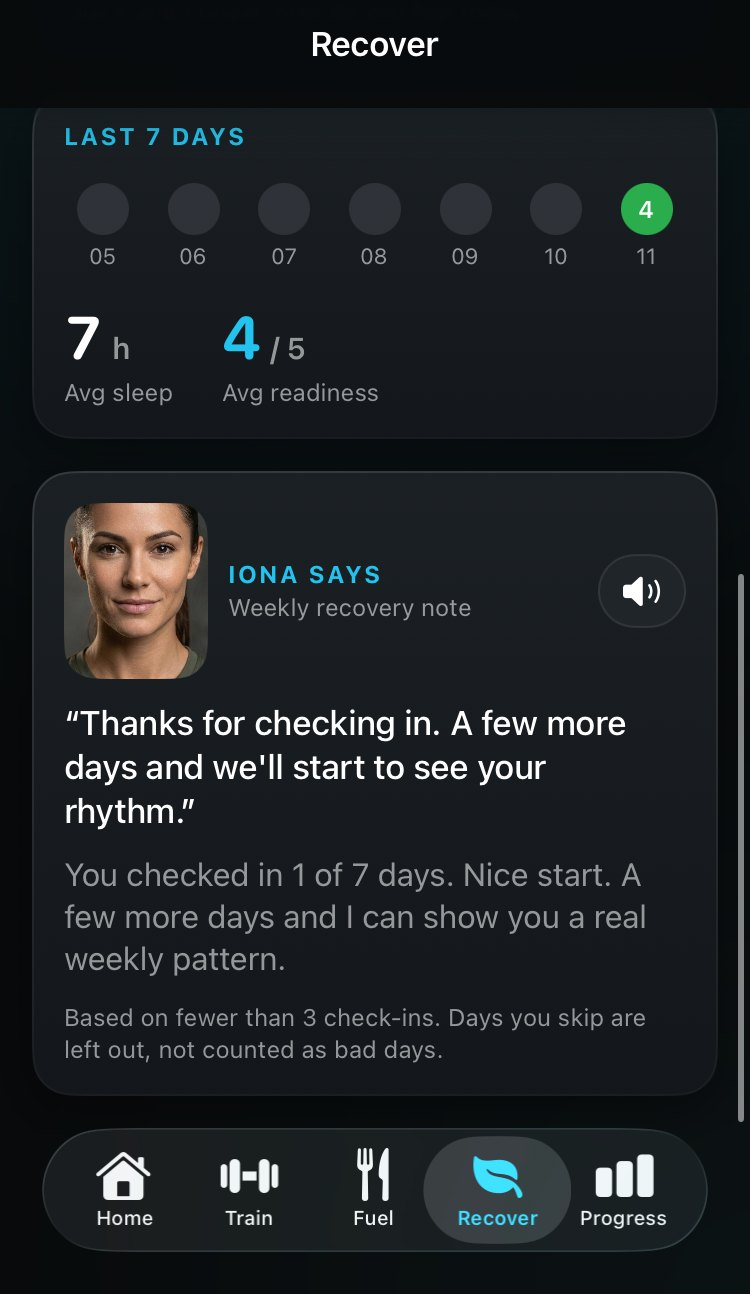
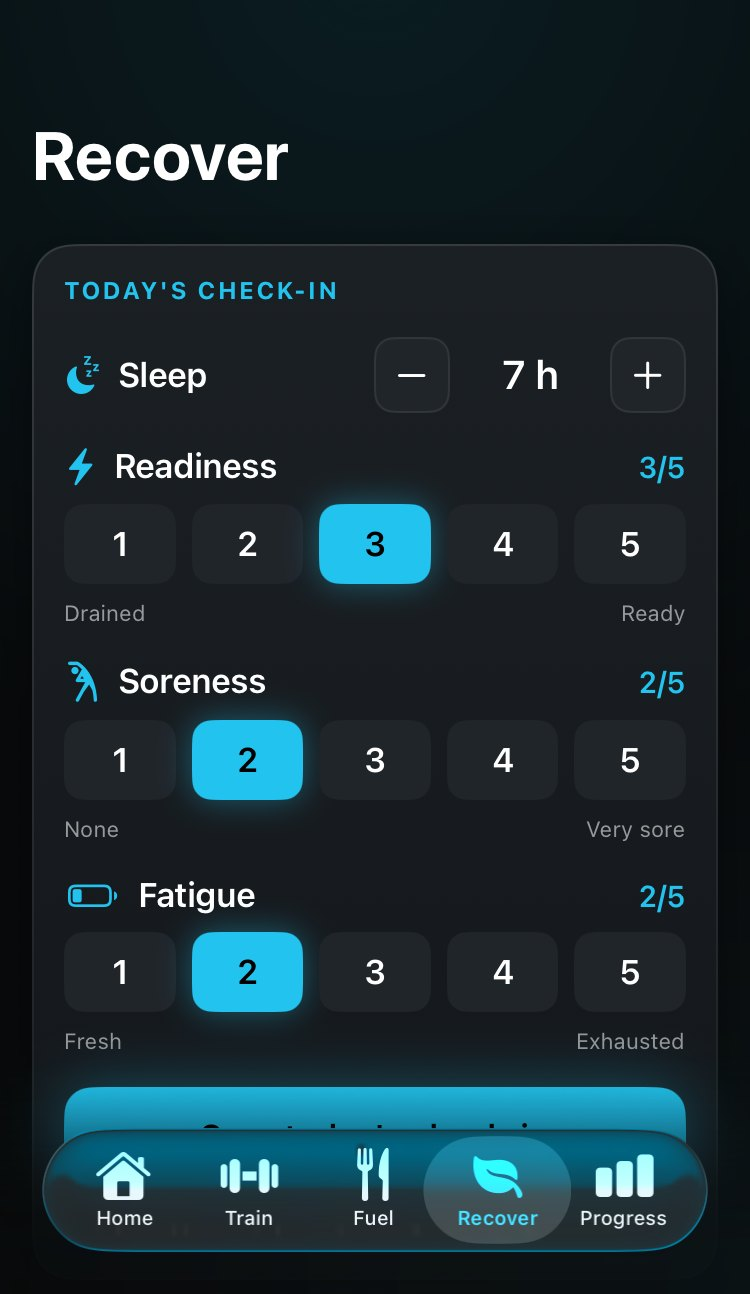
v3: coaches-first layout, Train/Fuel/Recover, coach styles, closing band; Apple trademark wording per Apple marketing guidelines; consumer health data link

diff --git a/index.html b/index.html
@@ -8,18 +8,29 @@
 <body>
 <div class="wrap"><div class="top">
   <a class="brand" href="index.html"><svg class="mark" viewBox="0 0 64 64" aria-hidden="true"><path d="M12 44 A20 20 0 0 1 52 44" fill="none" stroke="#1D3346" stroke-width="7" stroke-linecap="round"/><path d="M12 44 A20 20 0 0 1 38.2 25" fill="none" stroke="#22C3EE" stroke-width="7" stroke-linecap="round"/><path d="M30 45 L37 24 L34 46 Z" fill="#EAF4F8"/><circle cx="32" cy="44" r="4.5" fill="#22C3EE"/></svg><span>Gain Gauge<small>by Spud Labs</small></span></a>
-  <nav aria-label="Site"><a href="#faq">FAQ</a><a href="support.html">Support</a><a href="privacy.html">Privacy</a></nav>
+  <nav aria-label="Site"><a href="#how">How it works</a><a href="#coaches">Coaches</a><a href="#faq">FAQ</a><a href="support.html">Support</a><a href="privacy.html">Privacy</a></nav>
 </div></div>
 <main>
 <div class="wrap">
-  <div class="hero">
+  <div class="hero hero-coaches">
     <div>
       <h1 class="display">Lift by what you have left.</h1>
-      <p class="lede">Gain Gauge is a workout coach for iPhone. After each set, tell it how many reps you had left in the tank, and it sets your next weight.</p>
-      <span class="status">Coming soon to the App Store</span>
+      <p class="lede">Gain Gauge is a workout coach for iPhone&reg;. After each set, tell your coach how many reps you had left in the tank, and it sets your next weight.</p>
+      <div class="cta-row">
+        <span class="status">Coming soon on the App Store&reg;</span>
+        <a class="textlink" href="#how">See how it works</a>
+      </div>
     </div>
-    <div class="gauge">
-      <svg viewBox="0 0 520 300" role="img" aria-label="A gauge reading 2 reps left in the tank">
+    <div class="duo" aria-label="Coaches Everett and Iona">
+      <figure class="portrait p1"><img src="img/coach-everett.jpg" alt="Coach Everett, an AI-generated character" width="640" height="800"><figcaption><b>Everett</b>Direct and motivating</figcaption></figure>
+      <figure class="portrait p2"><img src="img/coach-iona.jpg" alt="Coach Iona, an AI-generated character" width="640" height="800"><figcaption><b>Iona</b>Encouraging and supportive</figcaption></figure>
+    </div>
+  </div>
+</div>
+
+<section id="how"><div class="wrap how-grid">
+  <div class="gauge">
+    <svg viewBox="0 0 520 300" role="img" aria-label="A gauge reading 2 reps left in the tank">
   <path class="track" d="M 60 260 A 200 200 0 0 1 460 260" fill="none" stroke-width="14" stroke-linecap="round"/>
   <path class="fill" d="M 60 260 A 200 200 0 0 1 321.8 69.8" fill="none" stroke-width="14" stroke-linecap="round"/>
   <line class="tick" x1="82.0" y1="260.0" x2="64.0" y2="260.0" stroke-width="3" stroke-linecap="round" opacity="1"/><line class="tick" x1="72.6" y1="245.2" x2="64.6" y2="244.6" stroke-width="1.5" stroke-linecap="round" opacity="0.55"/><line class="tick" x1="74.3" y1="230.6" x2="66.4" y2="229.3" stroke-width="1.5" stroke-linecap="round" opacity="0.55"/><line class="tick" x1="77.2" y1="216.1" x2="69.4" y2="214.2" stroke-width="1.5" stroke-linecap="round" opacity="0.55"/><line class="tick" x1="81.2" y1="201.9" x2="73.6" y2="199.4" stroke-width="1.5" stroke-linecap="round" opacity="0.55"/><line class="tick" x1="86.3" y1="188.1" x2="78.9" y2="185.0" stroke-width="1.5" stroke-linecap="round" opacity="0.55"/><line class="tick" x1="92.5" y1="174.6" x2="85.4" y2="171.0" stroke-width="1.5" stroke-linecap="round" opacity="0.55"/><line class="tick" x1="99.7" y1="161.8" x2="92.9" y2="157.6" stroke-width="1.5" stroke-linecap="round" opacity="0.55"/><line class="tick" x1="116.0" y1="155.4" x2="101.4" y2="144.8" stroke-width="3" stroke-linecap="round" opacity="1"/><line class="tick" x1="117.0" y1="137.9" x2="111.0" y2="132.7" stroke-width="1.5" stroke-linecap="round" opacity="0.55"/><line class="tick" x1="127.1" y1="127.1" x2="121.4" y2="121.4" stroke-width="1.5" stroke-linecap="round" opacity="0.55"/><line class="tick" x1="137.9" y1="117.0" x2="132.7" y2="111.0" stroke-width="1.5" stroke-linecap="round" opacity="0.55"/><line class="tick" x1="149.5" y1="107.9" x2="144.8" y2="101.4" stroke-width="1.5" stroke-linecap="round" opacity="0.55"/><line class="tick" x1="161.8" y1="99.7" x2="157.6" y2="92.9" stroke-width="1.5" stroke-linecap="round" opacity="0.55"/><line class="tick" x1="174.6" y1="92.5" x2="171.0" y2="85.4" stroke-width="1.5" stroke-linecap="round" opacity="0.55"/><line class="tick" x1="188.1" y1="86.3" x2="185.0" y2="78.9" stroke-width="1.5" stroke-linecap="round" opacity="0.55"/><line class="tick" x1="205.0" y1="90.7" x2="199.4" y2="73.6" stroke-width="3" stroke-linecap="round" opacity="1"/><line class="tick" x1="216.1" y1="77.2" x2="214.2" y2="69.4" stroke-width="1.5" stroke-linecap="round" opacity="0.55"/><line class="tick" x1="230.6" y1="74.3" x2="229.3" y2="66.4" stroke-width="1.5" stroke-linecap="round" opacity="0.55"/><line class="tick" x1="245.2" y1="72.6" x2="244.6" y2="64.6" stroke-width="1.5" stroke-linecap="round" opacity="0.55"/><line class="tick" x1="260.0" y1="72.0" x2="260.0" y2="64.0" stroke-width="1.5" stroke-linecap="round" opacity="0.55"/><line class="tick" x1="274.8" y1="72.6" x2="275.4" y2="64.6" stroke-width="1.5" stroke-linecap="round" opacity="0.55"/><line class="tick" x1="289.4" y1="74.3" x2="290.7" y2="66.4" stroke-width="1.5" stroke-linecap="round" opacity="0.55"/><line class="tick" x1="303.9" y1="77.2" x2="305.8" y2="69.4" stroke-width="1.5" stroke-linecap="round" opacity="0.55"/><line class="tick" x1="315.0" y1="90.7" x2="320.6" y2="73.6" stroke-width="3" stroke-linecap="round" opacity="1"/><line class="tick" x1="331.9" y1="86.3" x2="335.0" y2="78.9" stroke-width="1.5" stroke-linecap="round" opacity="0.55"/><line class="tick" x1="345.4" y1="92.5" x2="349.0" y2="85.4" stroke-width="1.5" stroke-linecap="round" opacity="0.55"/><line class="tick" x1="358.2" y1="99.7" x2="362.4" y2="92.9" stroke-width="1.5" stroke-linecap="round" opacity="0.55"/><line class="tick" x1="370.5" y1="107.9" x2="375.2" y2="101.4" stroke-width="1.5" stroke-linecap="round" opacity="0.55"/><line class="tick" x1="382.1" y1="117.0" x2="387.3" y2="111.0" stroke-width="1.5" stroke-linecap="round" opacity="0.55"/><line class="tick" x1="392.9" y1="127.1" x2="398.6" y2="121.4" stroke-width="1.5" stroke-linecap="round" opacity="0.55"/><line class="tick" x1="403.0" y1="137.9" x2="409.0" y2="132.7" stroke-width="1.5" stroke-linecap="round" opacity="0.55"/><line class="tick" x1="404.0" y1="155.4" x2="418.6" y2="144.8" stroke-width="3" stroke-linecap="round" opacity="1"/><line class="tick" x1="420.3" y1="161.8" x2="427.1" y2="157.6" stroke-width="1.5" stroke-linecap="round" opacity="0.55"/><line class="tick" x1="427.5" y1="174.6" x2="434.6" y2="171.0" stroke-width="1.5" stroke-linecap="round" opacity="0.55"/><line class="tick" x1="433.7" y1="188.1" x2="441.1" y2="185.0" stroke-width="1.5" stroke-linecap="round" opacity="0.55"/><line class="tick" x1="438.8" y1="201.9" x2="446.4" y2="199.4" stroke-width="1.5" stroke-linecap="round" opacity="0.55"/><line class="tick" x1="442.8" y1="216.1" x2="450.6" y2="214.2" stroke-width="1.5" stroke-linecap="round" opacity="0.55"/><line class="tick" x1="445.7" y1="230.6" x2="453.6" y2="229.3" stroke-width="1.5" stroke-linecap="round" opacity="0.55"/><line class="tick" x1="447.4" y1="245.2" x2="455.4" y2="244.6" stroke-width="1.5" stroke-linecap="round" opacity="0.55"/><line class="tick" x1="438.0" y1="260.0" x2="456.0" y2="260.0" stroke-width="3" stroke-linecap="round" opacity="1"/>
@@ -29,46 +40,62 @@
   </g>
   <circle cx="260" cy="260" r="16" fill="#22C3EE"/><circle cx="260" cy="260" r="6" fill="#08141F"/>
 </svg>
-      <div class="caption"><b>2 left in the tank</b><span>Your coach keeps this weight for the next set.</span></div>
-    </div>
+    <div class="caption"><b>2 left in the tank</b><span>Your coach keeps this weight for the next set.</span></div>
   </div>
-</div>
-
-<section><div class="wrap">
-  <div class="section-head"><h2 class="display">How it works</h2></div>
-  <ol class="steps">
-    <li><h3>Do your set</h3><p>Log the weight and reps with a tap, or just say them out loud.</p></li>
-    <li><h3>Say what was left</h3><p>Zero to five-plus reps left in the tank. An honest guess is all it needs.</p></li>
-    <li><h3>Get your next weight</h3><p>Heavier, lighter or the same. Your coach explains why, and you approve every change.</p></li>
-  </ol>
+  <div>
+    <div class="section-head"><h2 class="display">How it works</h2></div>
+    <ol class="steps steps-stack">
+      <li><h3>Do your set</h3><p>Log the weight and reps with a tap, or just say them out loud.</p></li>
+      <li><h3>Say what was left</h3><p>Zero to five-plus reps left in the tank. An honest guess is all it needs.</p></li>
+      <li><h3>Get your next weight</h3><p>Heavier, lighter or the same. Your coach explains why, and you approve every change.</p></li>
+    </ol>
+  </div>
 </div></section>
 
 <section><div class="wrap">
-  <div class="section-head">
-    <h2 class="display">A coach that talks back</h2>
-    <p>Pick Everett or Iona. They talk you through each workout, check how you slept, and answer questions in plain words.</p>
+  <div class="section-head"><h2 class="display">Train. Fuel. Recover.</h2><p>Three parts of getting stronger, in one app that shares what it knows between them.</p></div>
+  <div class="trio">
+    <article><div class="phone"><img src="img/app-train.jpg" alt="Train screen with today's workout picks, time slider and equipment choices" loading="lazy" width="750" height="1294"></div>
+      <h3>Train</h3><p>Pick your time and equipment. Get a workout that fits, with weights that adjust as you go.</p></article>
+    <article><div class="phone"><img src="img/app-fuel.jpg" alt="Add food screen searching for banana with matching foods" loading="lazy" width="750" height="1294"></div>
+      <h3>Fuel</h3><p>Search thousands of everyday foods from USDA data and log meals in seconds.</p></article>
+    <article><div class="phone"><img src="img/app-recover.jpg" alt="Recover check-in with sleep hours and readiness, soreness and fatigue ratings" loading="lazy" width="750" height="1294"></div>
+      <h3>Recover</h3><p>Rate sleep, soreness and energy. A rough night means today's workout eases off.</p></article>
   </div>
-  <div class="screens">
-    <figure><div class="phone"><img src="img/app-home.jpg" alt="Gain Gauge home screen with coach Everett and today's workout" loading="lazy" width="750" height="1294"></div>
-      <figcaption><b>Today, at a glance.</b> Your coach greets you with the workout that fits how you feel.</figcaption></figure>
-    <figure><div class="phone"><img src="img/app-coach.jpg" alt="Choose your coach screen with Coach Everett and Coach Iona and coaching style options" loading="lazy" width="750" height="1294"></div>
-      <figcaption><b>Your coach, your style.</b> Pick Everett or Iona, then how hard you want to be pushed.</figcaption></figure>
-    <figure><div class="phone"><img src="img/app-recover.jpg" alt="Recover screen with a week of check-ins and a note from coach Iona" loading="lazy" width="750" height="1294"></div>
-      <figcaption><b>Recovery that counts.</b> A ten-second check-in adjusts today's workout.</figcaption></figure>
-  </div>
-  <p class="note">Screens from a preview build. Final design may differ.</p>
 </div></section>
 
-<section><div class="wrap">
-  <div class="section-head"><h2 class="display">Everything in one app</h2></div>
-  <dl class="features">
-    <div><dt>Workouts that adjust</dt><dd>Plans for the gym or home. Weights move up or down from how your sets actually felt.</dd></div>
-    <div><dt>Hands-free logging<span class="pro">Pro</span></dt><dd>Say your reps and weight between sets and keep your phone in your pocket.</dd></div>
-    <div><dt>Food tracking</dt><dd>Search thousands of everyday foods from USDA data, or scan a barcode<span class="pro">Pro</span></dd></div>
-    <div><dt>Recovery check-ins</dt><dd>Sleep, soreness and energy in a few taps. Rough night? Today's workout eases off.</dd></div>
-    <div><dt>Private progress photos</dt><dd>Front, side and back, once a month, with an optional Face ID lock. Pro adds a before and after slider.</dd></div>
-    <div><dt>Apple Health and Apple Watch</dt><dd>Save workouts to Apple Health and log sets from your wrist.</dd></div>
+<section id="coaches"><div class="wrap">
+  <div class="section-head"><h2 class="display">Your coach. Your pace.</h2><p>Pick the coach and the style that fits you. Change either one anytime in Settings.</p></div>
+  <div class="coach-cards">
+    <article class="coach"><img src="img/coach-everett.jpg" alt="" width="640" height="800" loading="lazy">
+      <div><h3>Everett</h3><p class="tag">Direct and motivating</p><blockquote>"Quick check-in on Recover first? It helps me read how you're feeling."</blockquote></div></article>
+    <article class="coach"><img src="img/coach-iona.jpg" alt="" width="640" height="800" loading="lazy">
+      <div><h3>Iona</h3><p class="tag">Encouraging and supportive</p><blockquote>"Thanks for checking in. A few more days and we'll start to see your rhythm."</blockquote></div></article>
+  </div>
+  <dl class="styles">
+    <div><dt>Push Me</dt><dd>High energy. I'll push you.</dd></div>
+    <div><dt>Balanced</dt><dd>Steady and smart. We'll find the sweet spot.</dd></div>
+    <div><dt>Technical</dt><dd>Form first. Perfect your lifts.</dd></div>
+    <div><dt>Chill</dt><dd>Laid back and encouraging. No pressure.</dd></div>
   </dl>
+  <p class="note">Everett and Iona are AI-generated characters. They speak with voices built into your iPhone, so nothing is recorded or sent anywhere.</p>
+</div></section>
+
+<section><div class="wrap">
+  <div class="section-head"><h2 class="display">More in the app</h2></div>
+  <dl class="features">
+    <div><dt>Hands-free logging<span class="pro">Pro</span></dt><dd>Say your reps and weight between sets and keep your phone in your pocket.</dd></div>
+    <div><dt>Barcode scanning<span class="pro">Pro</span></dt><dd>Scan a package to fill in its nutrition, from a database of brand-name foods.</dd></div>
+    <div><dt>Private progress photos</dt><dd>Front, side and back, once a month, with an optional Face ID lock. Pro adds a before and after slider.</dd></div>
+    <div><dt>Ask your coach<span class="pro">Pro</span></dt><dd>Questions about training, food or recovery, answered in plain words on your iPhone. Needs an iPhone that supports Apple Intelligence.</dd></div>
+    <div><dt>Apple Health app</dt><dd>Works with the Apple Health app on iPhone. Save finished workouts and body weight, if you turn it on.</dd></div>
+    <div><dt>Gain Gauge for Apple Watch&reg;</dt><dd>Log sets and see your rest timer from your wrist.</dd></div>
+  </dl>
+</div></section>
+
+<section><div class="wrap privacy-block">
+  <h2 class="display">No account. No servers. No ads.</h2>
+  <p>Your workouts, food, check-ins and photos stay on your iPhone. We never see them, so we can't sell or share them. <a href="privacy.html">Read the privacy policy</a>.</p>
 </div></section>
 
 <section id="faq"><div class="wrap faq-grid">
@@ -84,20 +111,21 @@
   </div>
 </div></section>
 
-<section><div class="wrap privacy-block">
-  <h2 class="display">No account. No servers. No ads.</h2>
-  <p>Your workouts, food, check-ins and photos stay on your iPhone. We never see them, so we can't sell or share them. <a href="privacy.html">Read the privacy policy</a>.</p>
+
+<section class="closing"><div class="wrap">
+  <h2 class="display">Your next set is waiting.</h2>
+  <p>Gain Gauge is coming soon on the App Store. Questions in the meantime? <a href="mailto:hello@getspudlabs.com">hello@getspudlabs.com</a></p>
 </div></section>
 </main>
 <footer><div class="wrap">
   <div class="row">
     <div>
-      <p><strong style="color:var(--frost)">Spud Labs LLC</strong>, Meridian, Idaho</p>
+      <p><strong style="color:var(--frost)">Gain Gauge</strong> is made by Spud Labs LLC, Meridian, Idaho.</p>
       <p><a href="mailto:hello@getspudlabs.com">hello@getspudlabs.com</a></p>
     </div>
-    <nav aria-label="Footer"><a href="index.html">Home</a><a href="support.html">Support</a><a href="privacy.html">Privacy Policy</a></nav>
+    <nav aria-label="Footer"><a href="support.html">Support</a><a href="privacy.html">Privacy Policy</a><a href="privacy.html#health-data">Consumer Health Data</a></nav>
   </div>
-  <p style="margin-top:24px">Everett and Iona are AI-generated coach characters, not real people. Gain Gauge gives general fitness information, not medical advice.</p>
-  <p>Apple, iPhone, Apple Watch and Apple Health are trademarks of Apple Inc. &copy; 2026 Spud Labs LLC.</p>
+  <p style="margin-top:24px">Everett and Iona are AI-generated coach characters, not real people. Gain Gauge gives general fitness information, not medical advice. App screens are from a preview build and may change.</p>
+  <p>Apple, iPhone, Apple Watch and App Store are trademarks of Apple Inc., registered in the U.S. and other countries and regions. Gain Gauge is not affiliated with or endorsed by Apple. &copy; 2026 Spud Labs LLC.</p>
 </div></footer>
 </body></html>

diff --git a/style.css b/style.css
@@ -132,3 +132,57 @@ footer p{margin:6px 0;max-width:72ch}
 .faq summary:focus-visible{outline:2px solid var(--ice);outline-offset:4px}
 @media (prefers-reduced-motion:reduce){.faq summary::after{transition:none}}
 @media (max-width:820px){.faq-grid{grid-template-columns:1fr;gap:24px}.faq-grid .section-head{position:static}}
+
+/* ---- v3: coaches-first ---- */
+.cta-row{display:flex;align-items:center;gap:22px;flex-wrap:wrap}
+.textlink{color:var(--frost);font-size:15px;text-decoration:none;border-bottom:1px solid var(--rule);padding-bottom:2px}
+.textlink:hover{border-color:var(--ice)}
+
+/* Hero portraits: two offset cards, the one bold moment */
+.duo{position:relative;height:560px;justify-self:end;width:100%;max-width:520px}
+.portrait{position:absolute;margin:0;width:62%;border-radius:22px;overflow:hidden;background:var(--steel);box-shadow:0 40px 80px -40px rgba(0,0,0,.9)}
+.portrait img{width:100%;height:auto;aspect-ratio:4/5;object-fit:cover}
+.portrait figcaption{position:absolute;left:0;right:0;bottom:0;padding:44px 18px 16px;background:linear-gradient(transparent,rgba(8,20,31,.92));font-size:14px;color:var(--slate)}
+.portrait figcaption b{display:block;color:var(--frost);font-stretch:125%;font-weight:800;font-size:22px}
+.p1{left:0;top:0;z-index:1}
+.p2{right:0;top:120px;z-index:2;outline:6px solid var(--ink)}
+.hero-coaches{padding-bottom:72px}
+@media (max-width:860px){.duo{height:auto;display:grid;grid-template-columns:1fr 1fr;gap:12px;max-width:none}.portrait{position:relative;width:auto;top:auto;left:auto;right:auto;outline:0}.p2{margin-top:36px}}
+
+/* How it works: gauge beside the steps */
+.how-grid{display:grid;grid-template-columns:1fr 1fr;gap:64px;align-items:center}
+.how-grid .section-head{margin-bottom:28px}
+.steps-stack{grid-template-columns:1fr;gap:28px}
+.steps-stack li,.steps-stack li+li{padding:0 0 0 76px;border:0;position:relative}
+.steps-stack li::before{position:absolute;left:0;top:-4px;font-size:52px;margin:0}
+@media (max-width:860px){.how-grid{grid-template-columns:1fr;gap:36px}}
+
+/* Train / Fuel / Recover */
+.trio{display:grid;grid-template-columns:repeat(3,minmax(0,1fr));gap:32px}
+.trio article h3{font-stretch:125%;font-weight:850;font-size:30px;letter-spacing:-.02em;margin:26px 0 8px}
+.trio article p{color:var(--slate);margin:0;max-width:34ch}
+.trio .phone{max-width:300px}
+@media (max-width:860px){.trio{grid-template-columns:1fr;gap:56px}.trio .phone{max-width:280px}}
+
+/* Coach cards */
+.coach-cards{display:grid;grid-template-columns:1fr 1fr;gap:28px}
+.coach{display:grid;grid-template-columns:200px 1fr;gap:24px;align-items:center;background:var(--steel);border-radius:22px;padding:16px;overflow:hidden}
+.coach img{border-radius:14px;aspect-ratio:4/5;object-fit:cover;width:100%}
+.coach h3{font-stretch:125%;font-weight:850;font-size:34px;letter-spacing:-.02em;margin:0}
+.coach .tag{color:var(--ice);margin:4px 0 14px;font-weight:600}
+.coach blockquote{margin:0;color:var(--frost);font-size:18px;line-height:1.45;max-width:30ch}
+@media (max-width:900px){.coach-cards{grid-template-columns:1fr}.coach{grid-template-columns:140px 1fr}}
+.styles{display:grid;grid-template-columns:repeat(4,1fr);gap:0;margin:40px 0 0}
+.styles div{padding:20px 20px 0 0}
+.styles div+div{padding-left:20px;border-left:1px solid var(--rule)}
+.styles dt{font-weight:700;font-size:18px}
+.styles dd{margin:4px 0 0;color:var(--slate);font-size:15px}
+@media (max-width:820px){.styles{grid-template-columns:1fr 1fr;row-gap:22px}.styles div:nth-child(3){padding-left:0;border-left:0}}
+
+/* Closing band */
+.closing{text-align:center;padding:110px 0;background:radial-gradient(60% 120% at 50% 100%,rgba(34,195,238,.16),transparent 70%)}
+.closing h2{font-size:clamp(36px,5.4vw,72px)}
+.closing p{color:var(--slate);font-size:18px;margin:20px auto 0;max-width:46ch}
+.coach img,.portrait img{height:auto}
+.coach{align-items:center}
+@media (max-width:760px){.top nav a[href="#how"],.top nav a[href="#coaches"],.top nav a[href="privacy.html"]{display:none}.top nav{gap:16px}}

diff --git a/privacy.html b/privacy.html
@@ -45,7 +45,7 @@ Deleting the app also deletes all of its data.</p>
 <p>Gain Gauge gives general fitness information. It is not medical advice and does not diagnose or treat anything.
 Food data comes from USDA FoodData Central (public domain); nutrition values are estimates.</p>
 
-<h2>Consumer health data (Washington, Nevada and other state laws)</h2>
+<h2 id="health-data">Consumer health data (Washington, Nevada and other state laws)</h2>
 <p>Workouts, body weight, food, check-ins and progress photos can be "consumer health data" under laws such as Washington's My Health My Data Act. Gain Gauge does not collect, receive, share or sell this data: it is processed only on your iPhone and we never have access to it. Because we never receive it, there is nothing for us to share with third parties or affiliates. If you have questions or want to exercise a right under these laws, email support@getspudlabs.com.</p>
 <h2>Children</h2>
 <p>Gain Gauge is intended for adults 18 and older and is not directed to children.</p>
@@ -60,12 +60,12 @@ Food data comes from USDA FoodData Central (public domain); nutrition values are
 <footer><div class="wrap">
   <div class="row">
     <div>
-      <p><strong style="color:var(--frost)">Spud Labs LLC</strong>, Meridian, Idaho</p>
+      <p><strong style="color:var(--frost)">Gain Gauge</strong> is made by Spud Labs LLC, Meridian, Idaho.</p>
       <p><a href="mailto:hello@getspudlabs.com">hello@getspudlabs.com</a></p>
     </div>
-    <nav aria-label="Footer"><a href="index.html">Home</a><a href="support.html">Support</a><a href="privacy.html">Privacy Policy</a></nav>
+    <nav aria-label="Footer"><a href="support.html">Support</a><a href="privacy.html">Privacy Policy</a><a href="privacy.html#health-data">Consumer Health Data</a></nav>
   </div>
-  <p style="margin-top:24px">Everett and Iona are AI-generated coach characters, not real people. Gain Gauge gives general fitness information, not medical advice.</p>
-  <p>Apple, iPhone, Apple Watch and Apple Health are trademarks of Apple Inc. &copy; 2026 Spud Labs LLC.</p>
+  <p style="margin-top:24px">Everett and Iona are AI-generated coach characters, not real people. Gain Gauge gives general fitness information, not medical advice. App screens are from a preview build and may change.</p>
+  <p>Apple, iPhone, Apple Watch and App Store are trademarks of Apple Inc., registered in the U.S. and other countries and regions. Gain Gauge is not affiliated with or endorsed by Apple. &copy; 2026 Spud Labs LLC.</p>
 </div></footer>
 </body></html>

diff --git a/support.html b/support.html
@@ -32,12 +32,12 @@ dizziness, faintness, shortness of breath or sharp pain. In the U.S., call or te
 <footer><div class="wrap">
   <div class="row">
     <div>
-      <p><strong style="color:var(--frost)">Spud Labs LLC</strong>, Meridian, Idaho</p>
+      <p><strong style="color:var(--frost)">Gain Gauge</strong> is made by Spud Labs LLC, Meridian, Idaho.</p>
       <p><a href="mailto:hello@getspudlabs.com">hello@getspudlabs.com</a></p>
     </div>
-    <nav aria-label="Footer"><a href="index.html">Home</a><a href="support.html">Support</a><a href="privacy.html">Privacy Policy</a></nav>
+    <nav aria-label="Footer"><a href="support.html">Support</a><a href="privacy.html">Privacy Policy</a><a href="privacy.html#health-data">Consumer Health Data</a></nav>
   </div>
-  <p style="margin-top:24px">Everett and Iona are AI-generated coach characters, not real people. Gain Gauge gives general fitness information, not medical advice.</p>
-  <p>Apple, iPhone, Apple Watch and Apple Health are trademarks of Apple Inc. &copy; 2026 Spud Labs LLC.</p>
+  <p style="margin-top:24px">Everett and Iona are AI-generated coach characters, not real people. Gain Gauge gives general fitness information, not medical advice. App screens are from a preview build and may change.</p>
+  <p>Apple, iPhone, Apple Watch and App Store are trademarks of Apple Inc., registered in the U.S. and other countries and regions. Gain Gauge is not affiliated with or endorsed by Apple. &copy; 2026 Spud Labs LLC.</p>
 </div></footer>
 </body></html>
